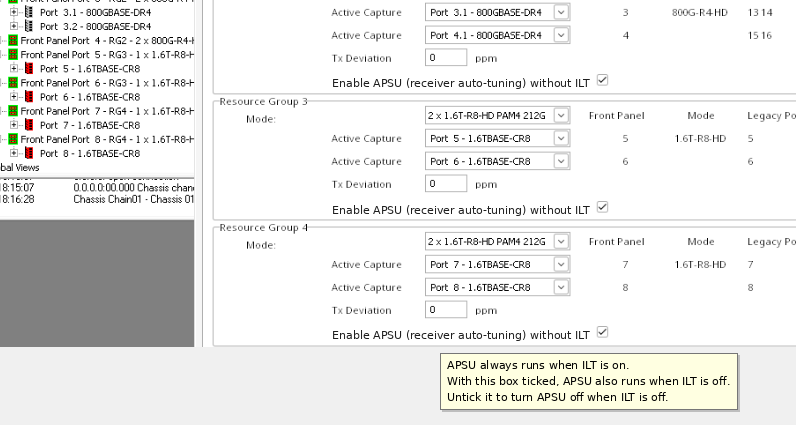
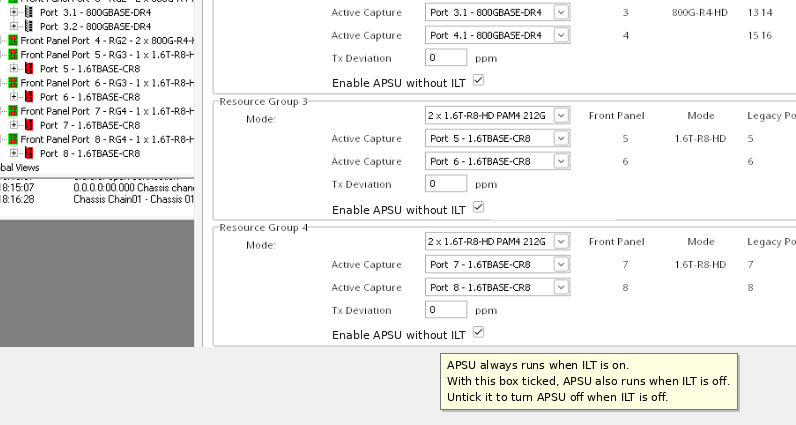
Drop '(receiver auto-tuning)' from 27.0 APSU checkbox label
Label is now 'Enable APSU without ILT'; mockup updated to match.

Claude-Session: https://claude.ai/code/session_01QBGuo1JPMqmGXnZa4rWerM

Changed region(s): [[0.5126, 0.4588, 0.7839, 0.52], [0.5126, 0.7647, 0.7839, 0.7953], [0.5126, 0.1835, 0.7839, 0.2141]]

diff --git a/decisions/26.6-layer1-apsu-ilt.md b/decisions/26.6-layer1-apsu-ilt.md
@@ -46,7 +46,7 @@ To get the 26.6 behavior back, untick it on each resource group.
 
 **Label:**
 
-> ☑ Enable APSU (receiver auto-tuning) without ILT
+> ☑ Enable APSU without ILT
 
 **Tooltip:**
 
